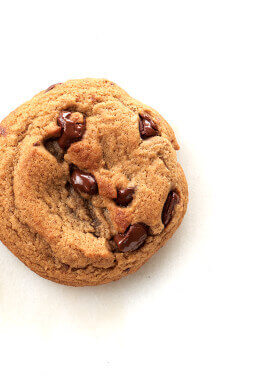
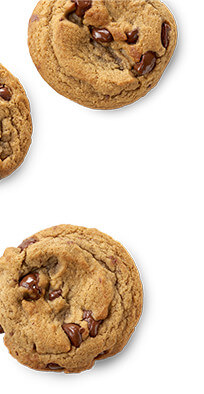
changes

diff --git a/app/sass/_about-us.scss b/app/sass/_about-us.scss
@@ -17,6 +17,7 @@
   padding: 56px 41px 0;
   margin: 0 auto;
   text-align: justify;
+  @include main-font3();
 
   p {
     margin: 0 0 11px;
@@ -48,26 +49,40 @@
 
 }
 .about-us__cookies_1 {
-  top: -70px;
-  width: 133px;
-  height: 192px;
+  top: 0;
+  left: -26px;
+  width: 100px;
+  height: 197px;
   background-image: url("../img/about-us-cookies1-mob.jpg");
 }
 .about-us__cookies_2 {
-  top: 120px;
-  width: 87px;
-  height: 190px;
+  top: 22px;
+  left: auto;
+  right: -21px;
+  width: 82px;
+  height: 175px;
   background-image: url("../img/about-us-cookies2-mob.jpg");
 }
-.about-us__cookies_3 {
-  top: -132px;
-  left: auto;
-  right: 0;
-  width: 107px;
-  height: 377px;
-  background-image: url("../img/about-us-cookies3-mob.jpg");
-}
 
+@media (min-width: $tablet-portrait) {
+
+  .about-us__cookies_1 {
+    top: 0;
+    left: 0;
+    width: 204px;
+    height: 394px;
+    background-image: url("../img/about-us-cookies1-mob.jpg");
+  }
+  .about-us__cookies_2 {
+    top: 0;
+    left: auto;
+    right: -0;
+    width: 184px;
+    height: 399px;
+    background-image: url("../img/about-us-cookies2-mob.jpg");
+  }
+
+}
 @media (min-width: $desktop) {
 
   .about-us {
@@ -139,12 +154,12 @@
     margin: 0 0 59px;
   }
   .about-us__text {
-    font-size: 22px;
-    line-height: 30px;
+    font-size: 19px;
+    line-height: 28px;
     padding: 75px 0 0;
 
     p {
-      margin: 0 0 32px;
+      margin: 0 0 28px;
     }
 
   }
@@ -153,56 +168,35 @@
     margin: 0 auto 39px;
   }
   .about-us__cookies_1 {
-    left: -90px;
-    top: -191px;
-    width: 623px;
-    height: 512px;
+    top: 0;
+    left: -20px;
+    width: 270px;
+    height: 540px;
     background-image: url("../img/about-us-cookies1.jpg");
   }
   .about-us__cookies_2 {
-    left: -90px;
-    top: 319px;
-    width: 467px;
-    height: 609px;
+    top: 0;
+    right: -20px;
+    width: 302px;
+    height: 651px;
     background-image: url("../img/about-us-cookies2.jpg");
-  }
-  .about-us__cookies_3 {
-    top: 17px;
-    left: auto;
-    right: -90px;
-    width: 402px;
-    height: 426px;
-    background-image: url("../img/about-us-cookies3.jpg");
-  }
-  .about-us__cookies_4 {
-    top: 442px;
-    left: auto;
-    right: -90px;
-    width: 406px;
-    height: 578px;
-    background-image: url("../img/about-us-cookies4.jpg");
   }
 
 
 }
 @media (min-width: $desktop-wide) {
 
-  .about-us__text {
-    font-size: 28px;
-    line-height: 34px;
-  }
   .about-us__cookies_1 {
-    left: 0;
+    top: 0;
+    left: -20px;
+    width: 446px;
+    height: 862px;
   }
   .about-us__cookies_2 {
-    left: 0;
-  }
-  .about-us__cookies_3 {
-    right: 0;
-  }
-  .about-us__cookies_4 {
-    right: 0;
-
+    top: 0;
+    right: -20px;
+    width: 402px;
+    height: 919px;
   }
 
 }

diff --git a/app/index.html b/app/index.html
@@ -393,14 +393,6 @@
                     <div class="about-us__cookies about-us__cookies_2"></div>
                     <!-- /about-us__cookies -->
 
-                    <!-- about-us__cookies -->
-                    <div class="about-us__cookies about-us__cookies_3"></div>
-                    <!-- /about-us__cookies -->
-
-                    <!-- about-us__cookies -->
-                    <div class="about-us__cookies about-us__cookies_4"></div>
-                    <!-- /about-us__cookies -->
-
                     <!-- about-us__inner -->
                     <div class="about-us__inner">
 

diff --git a/app/sass/_checkout.scss b/app/sass/_checkout.scss
@@ -136,6 +136,7 @@
 
   &.visible {
     display: block;
+    margin-bottom: 30px;
   }
 }
 
